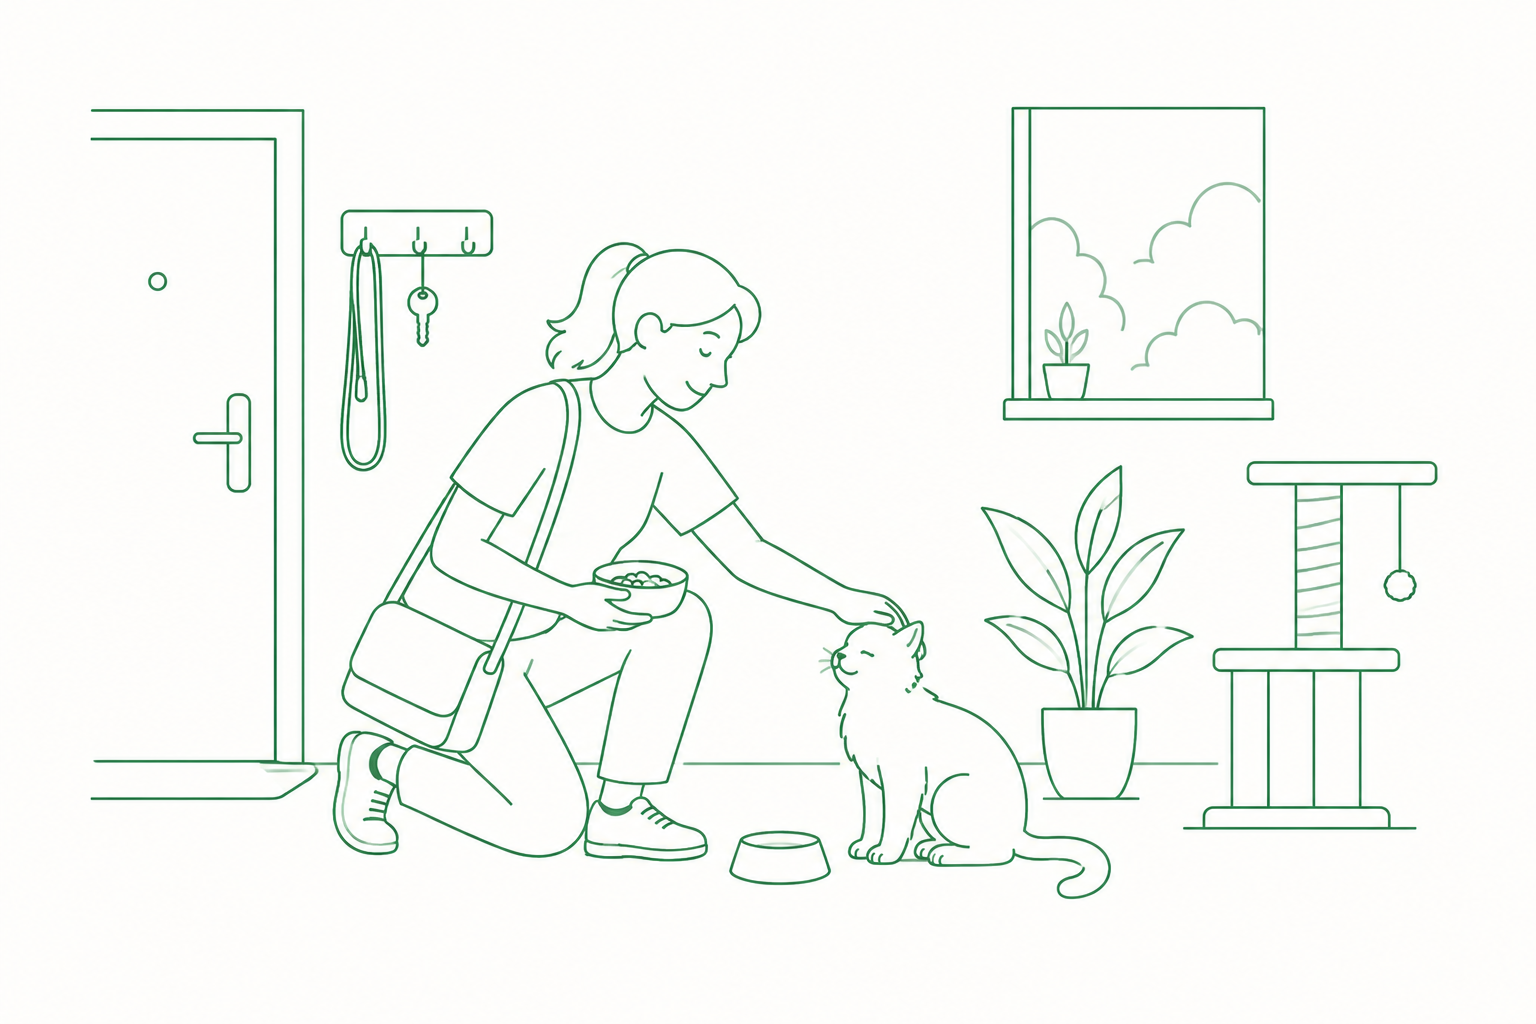
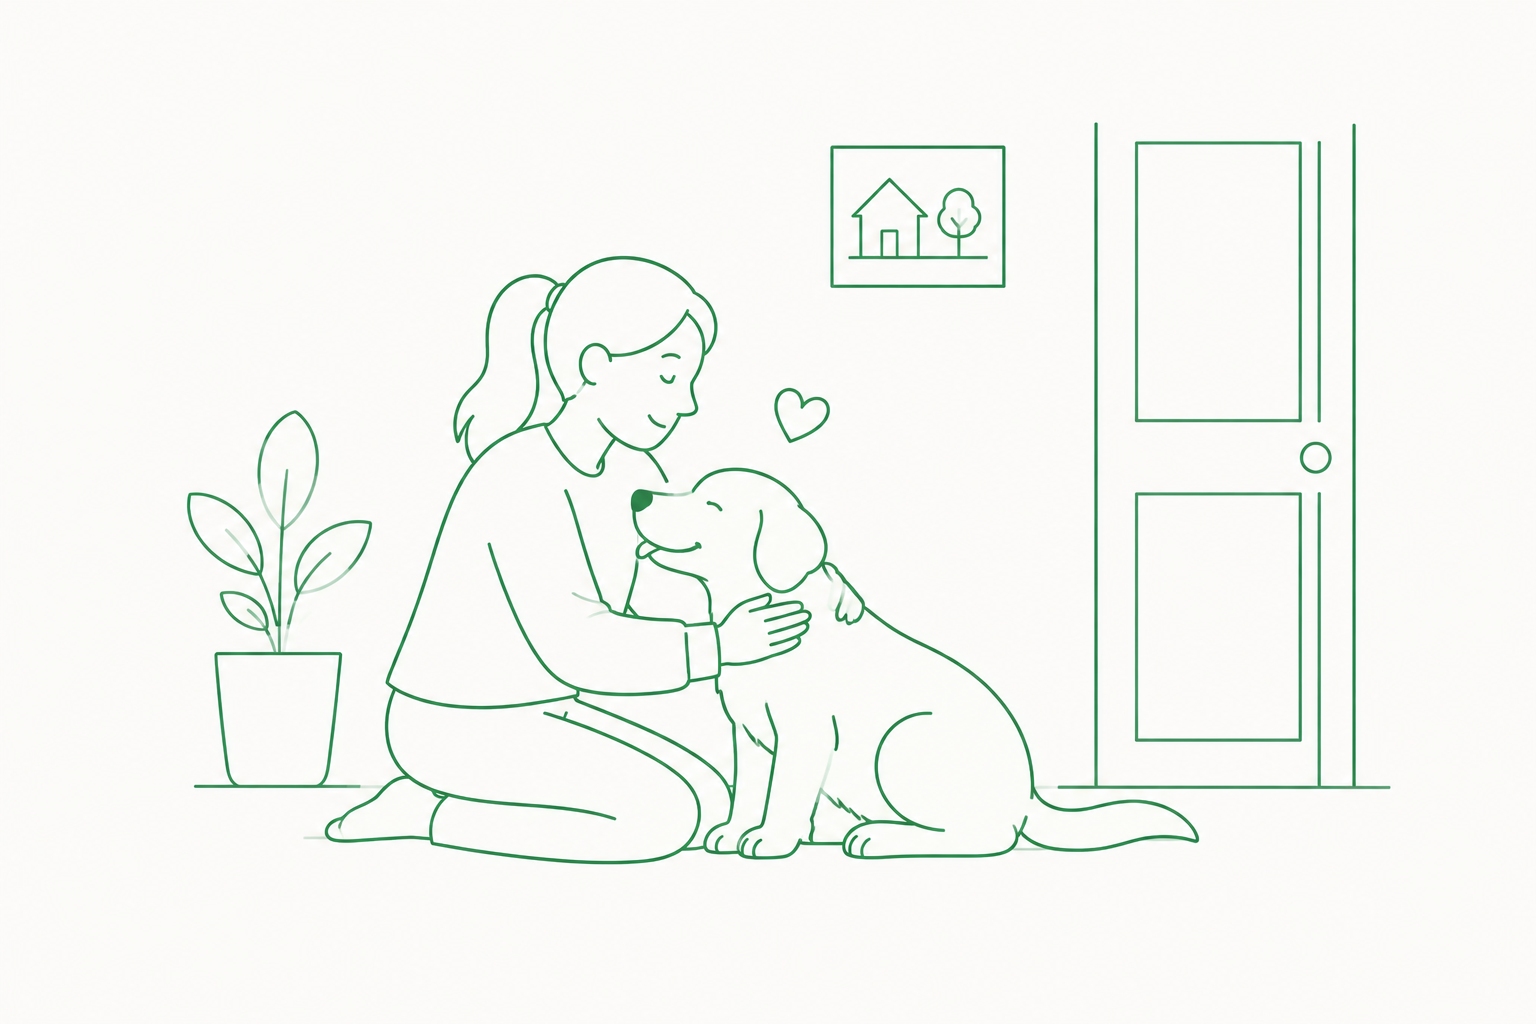
Fix housesitting illustration and add visiting illustration

diff --git a/src/components/home/ServiceCards.tsx b/src/components/home/ServiceCards.tsx
@@ -44,7 +44,7 @@ const CORE_SERVICES = [
     label: 'ביקורי בית',
     tagline: 'האכלה, משחק ובדיקה — בזמן שאתם לא בבית',
     description: 'מישהו שמגיע לבקר, להאכיל ולוודא שהכל בסדר. מצוין לחתולים ולכלבים שמסתדרים לבד רוב היום.',
-    photo: 'https://images.unsplash.com/photo-1530281700549-e82e7bf110d6?w=700&auto=format&fit=crop&q=80',
+    photo: '/visiting-illustration.png',
     Icon: Clock,
     tag: 'לכלבים וחתולים',
     href: '/search?service=sitting',
